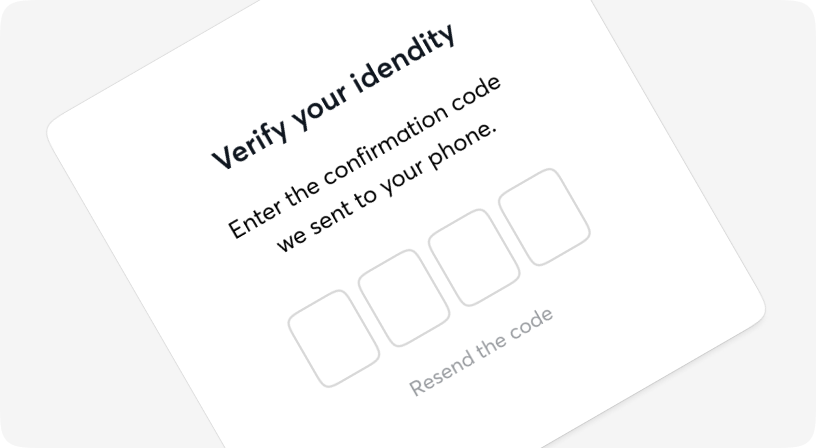
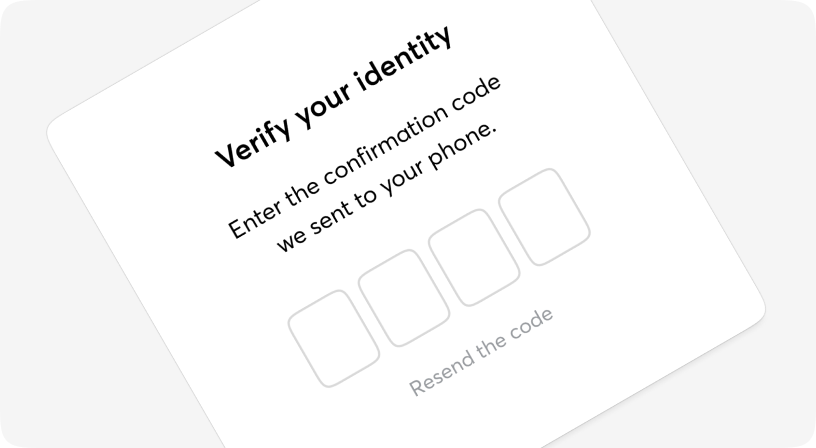
fix: update authcode preview image [MDS-1083] (#178)

Changed region(s): [[0.2451, 0.0625, 0.5515, 0.375]]

diff --git a/.changeset/wicked-mirrors-lie.md b/.changeset/wicked-mirrors-lie.md
@@ -1,0 +1,5 @@
+---
+"docs": patch
+---
+
+docs: Update AuthCode preview image [MDS-1083]
